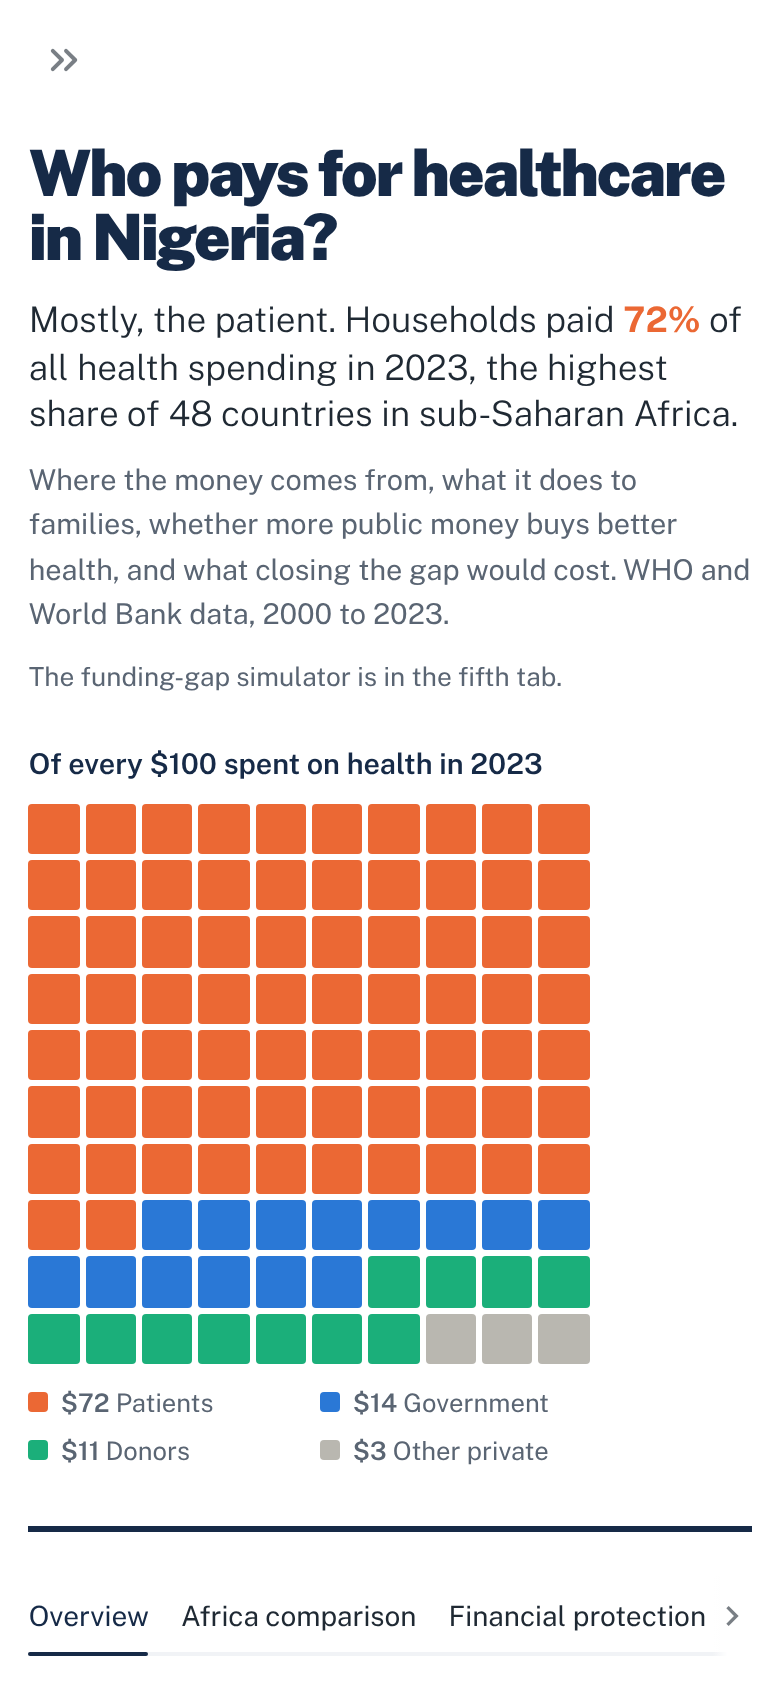
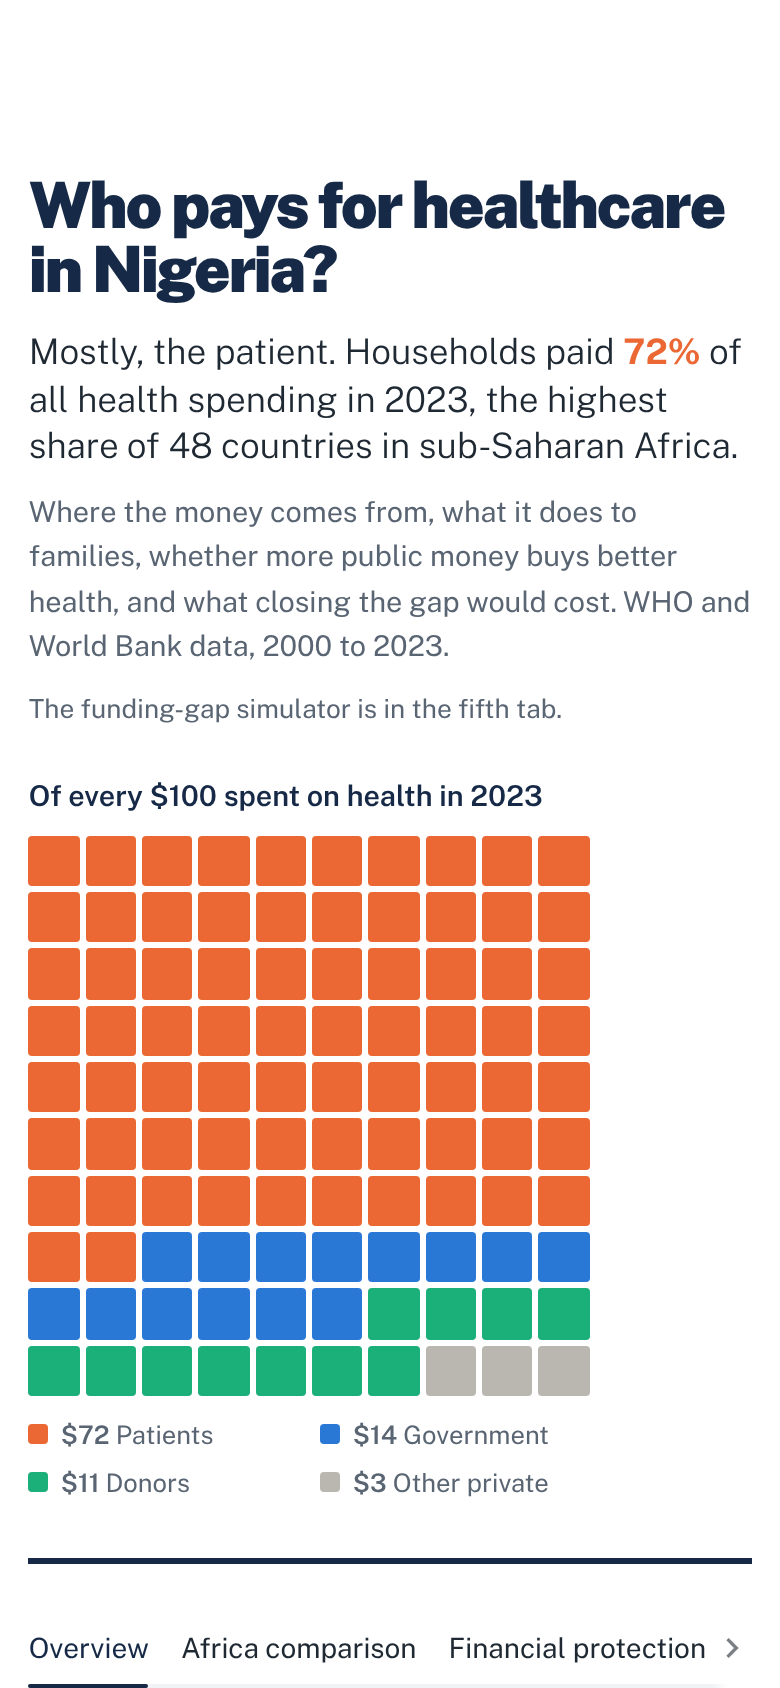
fix: clear the Streamlit Cloud toolbar; replace the sidebar with a page footer

Changed region(s): [[0.0308, 0.0924, 0.9538, 1.0], [0.0615, 0.0308, 0.0923, 0.0616]]

diff --git a/app/streamlit_app.py b/app/streamlit_app.py
@@ -23,9 +23,10 @@ COL = {"gov_share": BLUE, "ext_share": AQUA, "oop_share": ORANGE, "other_pvt_sha
 REPO = "https://github.com/Engr-Daniel/health-financing-nigeria"
 
 st.set_page_config(page_title="Who pays for healthcare in Nigeria?", page_icon=str(Path(__file__).parent / "static" / "favicon.png"), layout="wide",
-                   initial_sidebar_state="auto")
+                   initial_sidebar_state="collapsed")
 st.markdown(f"""<style>
-  .block-container {{padding-top:1.8rem; padding-bottom:3rem; max-width:1320px;}}
+  .block-container {{padding-top:4.6rem; padding-bottom:2rem; max-width:1320px;}}
+  [data-testid="stSidebarCollapsedControl"], [data-testid="stExpandSidebarButton"] {{display:none;}}
   h1, h2, h3, h4 {{color:{NAVY}; letter-spacing:-.02em;}}
   [data-testid="stSidebar"] a, [data-testid="stSidebar"] button {{color:#fff !important;}}
   .hero {{display:grid; grid-template-columns:1fr 300px; gap:48px; align-items:center; padding:4px 0 26px;
@@ -57,13 +58,16 @@ st.markdown(f"""<style>
   .sec {{font-size:1.45rem; font-weight:800; color:{NAVY}; margin:28px 0 2px; letter-spacing:-.025em;}}
   .sec-sub {{font-size:.92rem; color:{INK2}; margin:0 0 14px;}}
   .warn {{font-size:.9rem; color:{INK}; border-left:4px solid {ORANGE}; background:#fdf1eb; padding:10px 14px; margin:8px 0;}}
-  .foot {{border-top:1px solid {BORDER}; margin-top:40px; padding-top:14px; font-size:.84rem; color:{INK2}; line-height:1.6;}}
-  .foot a {{color:{NAVY};}}
+  .foot {{display:flex; flex-wrap:wrap; justify-content:space-between; gap:12px 28px; border-top:3px solid {NAVY};
+          margin-top:48px; padding:18px 0 4px; font-size:.9rem; color:{INK2};}}
+  .foot b {{color:{NAVY};}} .foot nav a {{color:{NAVY}; font-weight:600; text-decoration:none; margin-left:22px;}}
+  .foot nav a {{white-space:nowrap; display:inline-block;}} .foot nav a:first-child {{margin-left:0;}} .foot nav a:hover {{text-decoration:underline;}}
+  .foot small {{flex-basis:100%; font-size:.8rem; color:{INK3};}}
   div[data-testid="stTabs"] [data-baseweb="tab-list"] {{gap:2px; border-bottom:1px solid {BORDER};}}
   div[data-testid="stTabs"] button p {{font-size:.98rem; font-weight:600;}}
   .mhint {{display:none;}}
   @media (max-width:768px) {{
-    .block-container {{padding:3.2rem .9rem 2rem;}} .hero {{grid-template-columns:1fr; gap:22px;}} .waf {{max-width:280px;}}
+    .block-container {{padding:4.2rem .9rem 2rem;}} .foot nav a {{margin:0 16px 0 0;}} .hero {{grid-template-columns:1fr; gap:22px;}} .waf {{max-width:280px;}}
     .hero h1 {{font-size:2rem;}} .hero .ans {{font-size:1.1rem;}} .hero p {{font-size:.9rem;}}
     .kpis {{grid-template-columns:repeat(2, 1fr); gap:14px;}} .kpi {{min-height:0;}} .kpi .v {{font-size:1.5rem;}}
     .kpi .s {{font-size:.76rem;}} .headline {{font-size:1.05rem;}} .mhint {{display:block; font-size:.82rem; margin-top:10px; color:{INK2};}}
@@ -110,13 +114,6 @@ B, MIX, SSA, PROT, (CFIT, CDAT), MODELS = base()
 rank_oop, n_ssa = nigeria_rank("oop_share")
 rank_bud, _ = nigeria_rank("gov_budget_share", higher_is_worse=False)
 last_p = PROT.iloc[-1]
-
-with st.sidebar:
-    st.markdown("### About")
-    st.caption("Health-financing analysis of Nigeria using WHO Global Health Expenditure Database and World Bank data "
-               "(2000–2023), with a funding-gap simulator.")
-    st.link_button("Code and method", REPO, width="stretch")
-    st.caption("Daniel Oyewale")
 
 _raw = {c: float(MIX[c].iloc[-1]) for c, _ in SOURCES}  # largest-remainder rounding: squares sum to exactly 100
 _w = {c: int(v) for c, v in _raw.items()}
@@ -375,5 +372,8 @@ with tabs[5]:
     with st.expander("Sources and assumptions table"):
         st.dataframe(pd.read_csv(ROOT / "data" / "reference" / "assumptions.csv"), hide_index=True, width="stretch")
 
-st.markdown(f'<div class="foot">Analysis for research and advocacy, not official statistics. Sources are listed under '
-            f'Method &amp; data. <a href="{REPO}">Source code</a></div>', unsafe_allow_html=True)
+st.markdown(f'''<div class="foot"><span><b>Daniel Oyewale</b>, data analyst and sustainability researcher</span>
+<nav><a href="{REPO}/blob/master/reports/policy_brief.pdf" target="_blank">Policy brief (PDF)</a>
+<a href="{REPO}" target="_blank">Code and method</a><a href="https://github.com/Engr-Daniel" target="_blank">More projects</a></nav>
+<small>Data: WHO Global Health Expenditure Database and World Bank (CC BY 4.0). Analysis for research and advocacy, not
+official statistics.</small></div>''', unsafe_allow_html=True)
